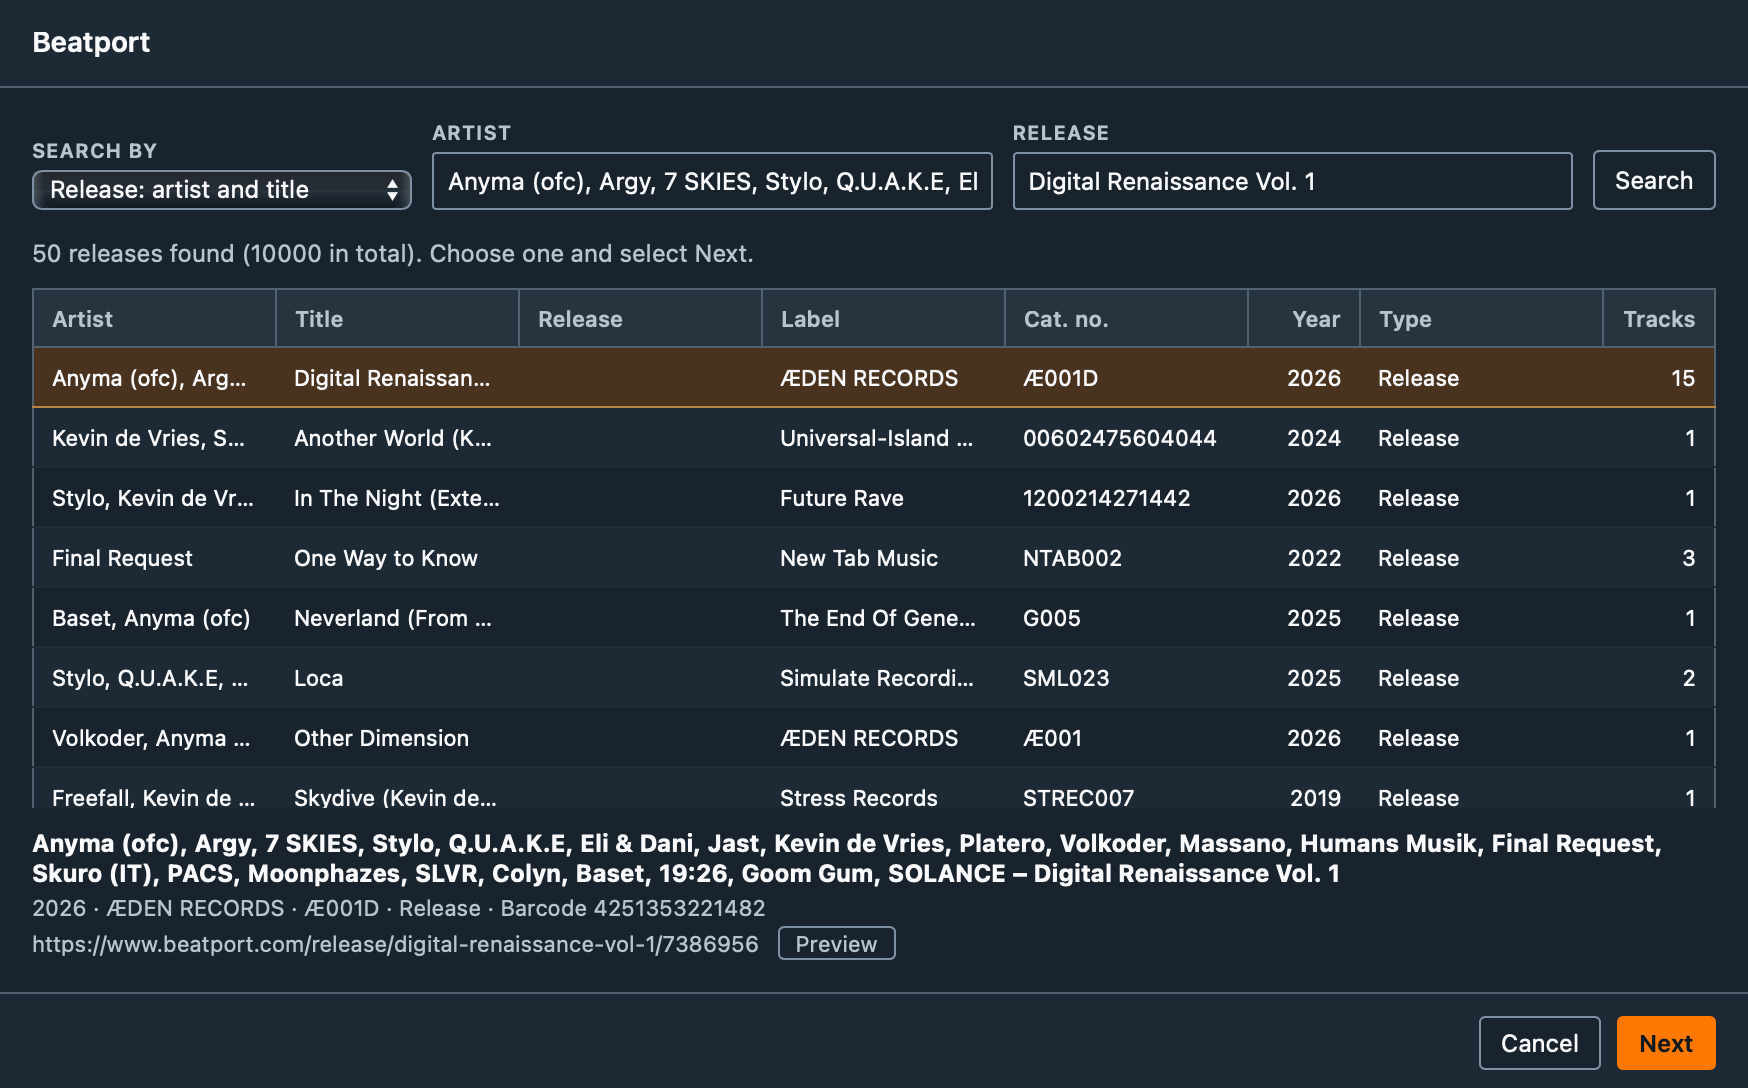
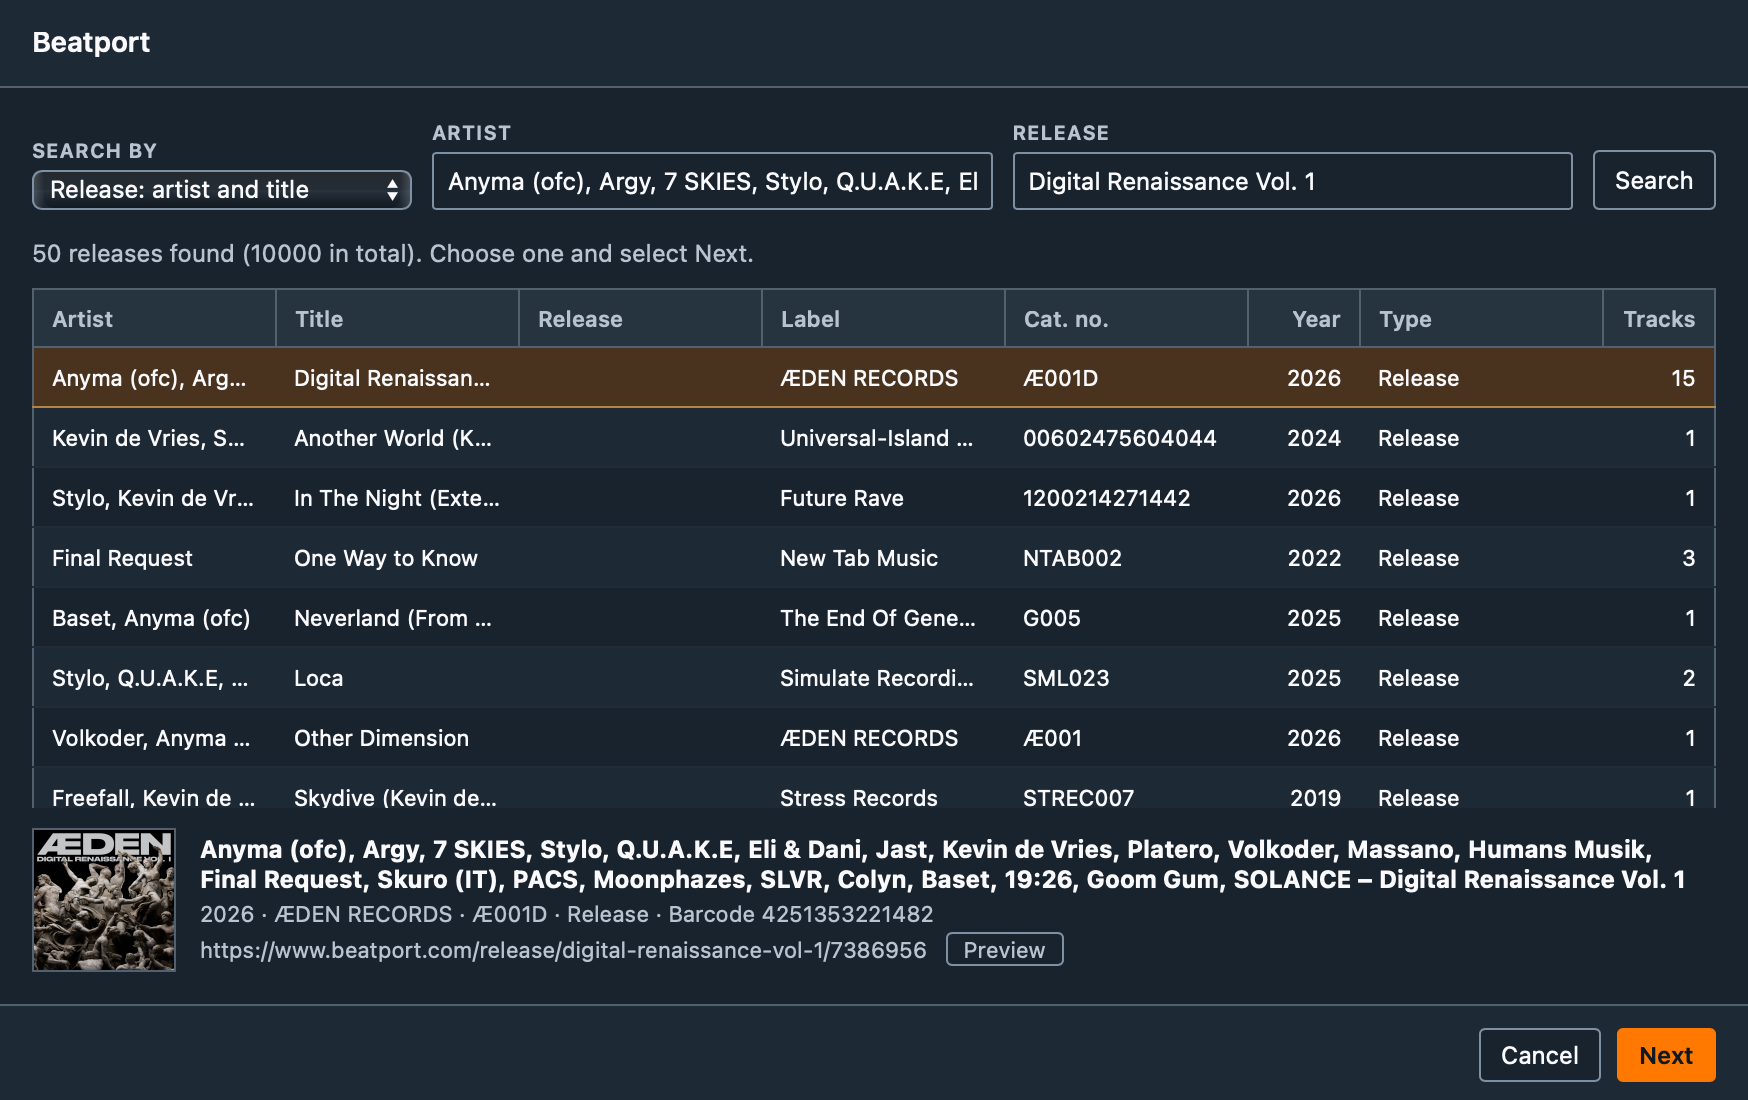
docs: screenshots of the provider flows, Compare with Edition lists, the solver page
Adds figures captured locally from a debug build of this branch with real
albums and songs: Discogs, Beatport (release and track), Traxsource (release and
track), AcoustID results and review, Compare (editions, review), the Cloudflare
solver page with a neutral example address and the API keys dialog as a new
person sees it. Describes the Edition list and when Compare marks a source
ready, and the iTunes artist fallback.

Screenshot scenes: Traxsource searches the release title alone (it lists the
compilation under Various Artists) and uses a track Traxsource carries; Compare
chooses a field that changes so the review step can be captured.

diff --git a/tests/docs-screens/scenes/tag-sources-live.js b/tests/docs-screens/scenes/tag-sources-live.js
@@ -62,6 +62,7 @@
   // EDM songs for the dance stores (Beatport, Traxsource), pop songs for iTunes, Deezer, LRCLIB, AcoustID.
   const DJ = h.music('albums', /Anyma/);
   const EDM = h.music('songs', /Adriatique/);
+  const EDM_TRAXSOURCE = h.music('songs', /Armin van Buuren/);   // Traxsource has this one; it does not carry Adriatique
   const POP = h.music('songs', /Taylor Swift/);
   const LYRICS = h.music('songs', /Lady Gaga/);
   const FINGERPRINT = h.music('songs', /Olivia Dean/);
@@ -88,9 +89,10 @@
       // Traxsource lists this compilation under "Various Artists": search by the release title alone.
       await searchFlow('source-traxsource', { results: 'traxsource-release-results', review: 'traxsource-release-review', tracks: 'traxsource-release-tracks' }, { mode: 'release', terms: { 'ts-artist': '', 'ts-album': 'Digital Renaissance' } });
     }),
-    scene('traxsource-track-flow', ['traxsource-track-results', 'traxsource-track-review'], EDM, async () => {
+    scene('traxsource-track-flow', ['traxsource-track-results', 'traxsource-track-review'], EDM_TRAXSOURCE, async () => {
       await h.selectAll();
-      await searchFlow('source-traxsource', { results: 'traxsource-track-results', review: 'traxsource-track-review' }, { mode: 'artist_title' });
+      // The first artist and the title without its mix, so the store's search finds the track.
+      await searchFlow('source-traxsource', { results: 'traxsource-track-results', review: 'traxsource-track-review' }, { mode: 'artist_title', terms: { 'ts-artist': 'Armin van Buuren', 'ts-title': 'Here In My Arms' } });
     }),
     scene('itunes-flow', ['itunes-results', 'itunes-review'], POP, async () => {
       await h.selectAll();
@@ -119,7 +121,7 @@
     }),
     // Compare metadata, album mode. Takes: the window as opened, the sources panel, the window
     // after searching, one field's provider menu, and the review step. Never presses Save.
-    scene('compare-flow', ['compare-start', 'compare-sources', 'compare-results', 'compare-use-menu', 'compare-review'], REM, async () => {
+    scene('compare-flow', ['compare-start', 'compare-sources', 'compare-editions', 'compare-results', 'compare-use-menu', 'compare-review'], REM, async () => {
       await h.selectAll();
       const d = await h.openDialog('source-compare', '[data-fields]');
       await h.waitFor(() => !/Reading existing/i.test(d.querySelector('[data-status]')?.textContent || ''), 20000, 'snapshot read');
@@ -139,17 +141,43 @@
       await h.sleep(2500);
       await h.report('LOG compare status: ' + (d.querySelector('[data-status]')?.textContent || ''));
       await h.snap('compare-results', 'dialog');
+      // The sources panel after the search: every source with several editions has an Edition list.
+      d.querySelector('[data-sources]').click(); await h.sleep(1500);
+      await h.snap('compare-editions', 'dialog');
+      const panelBack = [...document.querySelectorAll('dialog[open] [data-close]')].at(-1);
+      if (document.querySelectorAll('dialog[open]').length > 1) panelBack?.click();
+      await h.sleep(600);
       const pick = d.querySelector('[data-pick-field="ALBUM"]') || d.querySelector('[data-pick-field]');
       if (pick) {
         pick.click(); await h.sleep(800);
-        const menu = document.querySelector('[role="menu"], .mc-choice-menu, .helper-menu, [data-comparison-menu]');
-        await h.report('LOG use menu: ' + (menu ? menu.textContent.trim().replace(/\s+/g, ' ').slice(0, 200) : 'none found'));
+        const picker = [...document.querySelectorAll('dialog[open]')].at(-1);
+        const choices = [...picker.querySelectorAll('[data-source-choice^="native:"]')];
+        await h.report('LOG use menu: ' + choices.map(c => c.textContent.trim().replace(/\s+/g, ' ') + (c.disabled ? ' (disabled)' : '')).join(' | '));
         await h.snap('compare-use-menu', 'dialog');
-        document.body.dispatchEvent(new KeyboardEvent('keydown', { key: 'Escape', bubbles: true }));
-        await h.sleep(300);
+        document.body.dispatchEvent(new KeyboardEvent('keydown', { key: 'Escape', bubbles: true })); await h.sleep(500);
+        if (document.querySelectorAll('dialog[open]').length > 1) [...document.querySelectorAll('dialog[open] [data-close]')].at(-1)?.click();
+        await h.sleep(400);
+      }
+      // A field whose value a provider would change (Genre, else Year), so the review step has something to show.
+      const change = d.querySelector('[data-pick-field="GENRE"]') || d.querySelector('[data-pick-field="YEAR"]');
+      if (change) {
+        change.click(); await h.sleep(800);
+        const picker2 = [...document.querySelectorAll('dialog[open]')].at(-1);
+        const enabled = [...picker2.querySelectorAll('[data-source-choice^="native:"]')].filter(c => !c.disabled);
+        await h.report('LOG change choices: ' + enabled.map(c => c.textContent.trim().replace(/\s+/g, ' ')).join(' | '));
+        const chosen = enabled.find(c => /Last\.fm|Deezer|MusicBrainz/.test(c.textContent)) || enabled[0];
+        if (chosen) {
+          chosen.click(); await h.sleep(800);
+          if (document.querySelectorAll('dialog[open]').length > 1) [...document.querySelectorAll('dialog[open] [data-close]')].at(-1)?.click();
+          await h.sleep(500);
+        }
       }
       const review = d.querySelector('[data-review]');
       await h.report('LOG review enabled=' + (review && !review.disabled));
+      if (review && !review.disabled) {
+        review.click(); await h.sleep(2500);
+        await h.snap('compare-review', 'dialog');   // never saved: the dialog is closed below
+      }
       d.close();
     }),
   ];

diff --git a/docs/user-guide/tag-sources/catalog.md b/docs/user-guide/tag-sources/catalog.md
@@ -76,6 +76,86 @@ saving. Opening a release alone writes nothing.
 To choose individual fields from several providers, use
 [Compare metadata…](index.md#compare-fields-from-several-sources).
 
+## Review a Beatport result
+
+A release review lists the release's fields, each with a check box, and then its
+tracks beside the files TagGroove matched them to, in the release's own track
+order. A track review shows that one track's fields. Nothing is written until you
+choose **Save tags**.
+
+<!-- figure:beatport-release-review -->
+<figure markdown>
+![The Beatport review for Digital Renaissance Vol. 1 with its cover, the fields to write and the tracks matched to the selected files](../assets/screens/beatport-release-review-light.png#only-light)
+![The Beatport review for Digital Renaissance Vol. 1 with its cover, the fields to write and the tracks matched to the selected files](../assets/screens/beatport-release-review-dark.png#only-dark)
+<figcaption>The release's own cover is offered with the fields.</figcaption>
+</figure>
+<!-- /figure -->
+
+<!-- figure:beatport-release-tracks -->
+<figure markdown>
+![The tracks of the Beatport release beside the files they are matched to, with arrows to move a file to another track](../assets/screens/beatport-release-tracks-light.png#only-light)
+![The tracks of the Beatport release beside the files they are matched to, with arrows to move a file to another track](../assets/screens/beatport-release-tracks-dark.png#only-dark)
+</figure>
+<!-- /figure -->
+
+<!-- figure:beatport-track-results -->
+<figure markdown>
+![Beatport track results for Adriatique's Palm Of Your Hands (Extended Mix), with the chosen result's cover, label and catalog number below the list](../assets/screens/beatport-track-results-light.png#only-light)
+![Beatport track results for Adriatique's Palm Of Your Hands (Extended Mix), with the chosen result's cover, label and catalog number below the list](../assets/screens/beatport-track-results-dark.png#only-dark)
+<figcaption>Search a track by artist and title, then choose the result.</figcaption>
+</figure>
+<!-- /figure -->
+
+<!-- figure:beatport-track-review -->
+<figure markdown>
+![The review of one Beatport track: its fields and the file it is matched to](../assets/screens/beatport-track-review-light.png#only-light)
+![The review of one Beatport track: its fields and the file it is matched to](../assets/screens/beatport-track-review-dark.png#only-dark)
+</figure>
+<!-- /figure -->
+
+## Review a Traxsource result
+
+Traxsource results and reviews work the same way. Traxsource often lists a
+compilation under *Various Artists*, so search by the release title alone if the
+artist of your files finds nothing.
+
+<!-- figure:traxsource-release-review -->
+<figure markdown>
+![The Traxsource review for Digital Renaissance Vol. 1 with its cover, fields and tracks](../assets/screens/traxsource-release-review-light.png#only-light)
+![The Traxsource review for Digital Renaissance Vol. 1 with its cover, fields and tracks](../assets/screens/traxsource-release-review-dark.png#only-dark)
+</figure>
+<!-- /figure -->
+
+<!-- figure:traxsource-release-tracks -->
+<figure markdown>
+![The Traxsource release's tracks beside the matched files; one of the 15 tracks has no file](../assets/screens/traxsource-release-tracks-light.png#only-light)
+![The Traxsource release's tracks beside the matched files; one of the 15 tracks has no file](../assets/screens/traxsource-release-tracks-dark.png#only-dark)
+<figcaption>TagGroove says how many tracks have a file before you save.</figcaption>
+</figure>
+<!-- /figure -->
+
+<!-- figure:traxsource-release-results -->
+<figure markdown>
+![Traxsource release search for Digital Renaissance with the artist box cleared: the compilation is listed under Various Artists](../assets/screens/traxsource-release-results-light.png#only-light)
+![Traxsource release search for Digital Renaissance with the artist box cleared: the compilation is listed under Various Artists](../assets/screens/traxsource-release-results-dark.png#only-dark)
+<figcaption>Searching by the release title alone finds a compilation credited to Various Artists.</figcaption>
+</figure>
+<!-- /figure -->
+
+<!-- figure:traxsource-track-results -->
+<figure markdown>
+![Traxsource track search for Armin van Buuren's Here In My Arms, with its single result and cover below the list](../assets/screens/traxsource-track-results-light.png#only-light)
+![Traxsource track search for Armin van Buuren's Here In My Arms, with its single result and cover below the list](../assets/screens/traxsource-track-results-dark.png#only-dark)
+</figure>
+<!-- /figure -->
+
+<!-- figure:traxsource-track-review -->
+<figure markdown>
+![The review of one Traxsource track: its fields and the file it is matched to](../assets/screens/traxsource-track-review-light.png#only-light)
+![The review of one Traxsource track: its fields and the file it is matched to](../assets/screens/traxsource-track-review-dark.png#only-dark)
+</figure>
+<!-- /figure -->
+
 ## When Cloudflare blocks a lookup
 
 Traxsource in particular can answer with a Cloudflare challenge instead of the

diff --git a/docs/user-guide/tag-sources/compare.md b/docs/user-guide/tag-sources/compare.md
@@ -47,9 +47,28 @@ details. A failed source leaves other results available; retry it separately.
 
 ## 3. Check the matches
 
-Check the suggested release and **Tracks and files**. Use **Matches** to
-choose another edition, or **Match…** to correct a file's provider track.
-Ambiguous matches require review. A changed candidate resets its field choices.
+Check the suggested release and **Tracks and files**. A source that found
+several editions of the album shows an **Edition** list in **Sources and
+matches**: choose the pressing or release you have, and that source loads it and
+becomes ready. **Matches** lists the same candidates with more detail, and
+**Match…** corrects a file's provider track.
+
+<!-- figure:compare-editions -->
+<figure markdown>
+![Sources and matches after a search: a source with several editions has an Edition list, and sources that matched say Ready](../assets/screens/compare-editions-light.png#only-light)
+![Sources and matches after a search: a source with several editions has an Edition list, and sources that matched say Ready](../assets/screens/compare-editions-dark.png#only-dark)
+<figcaption>Choose the edition you have from each source's Edition list.</figcaption>
+</figure>
+<!-- /figure -->
+
+A source is ready on its own when exactly one of its results has the artist and
+title you searched for and every file has a matching track. Several editions of
+the same album, or a track that does not line up, are ambiguous: that source
+stays at **Choose the matching result** until you pick its edition, and its
+values stay unavailable in **Use** until then. In **Use**, **Review match** takes
+you to that source's list. Last.fm matches tracks by title and artist
+only, because its track lengths are often inaccurate. A changed candidate resets
+its field choices.
 
 <!-- figure:compare-results -->
 <figure markdown>
@@ -102,6 +121,13 @@ fields. Artwork has the same Inherit/None/provider choices and a visual preview.
 Choose **Review and save**. Check affected paths, removals and missing-value
 notices, then save the reviewed batch. Successful files appear separately if
 another file fails. **Retry failed files** writes only the remaining failures.
+
+<!-- figure:compare-review -->
+<figure markdown>
+![The review step of Compare metadata, listing the files and fields that would change before anything is saved](../assets/screens/compare-review-light.png#only-light)
+![The review step of Compare metadata, listing the files and fields that would change before anything is saved](../assets/screens/compare-review-dark.png#only-dark)
+</figure>
+<!-- /figure -->
 
 ## Good to know
 

diff --git a/docs/user-guide/tag-sources/discogs.md b/docs/user-guide/tag-sources/discogs.md
@@ -22,6 +22,21 @@ Select the album's files and choose **Discogs…**. Search by **Artist and
 album**, **Free text**, **Barcode** or **Catalog number**, or use **Release
 ID or address**. **Tag Sources → Discogs Release ID…** opens the direct lookup.
 
+<!-- figure:discogs-results -->
+<figure markdown>
+![Discogs results for Miles Davis's Kind Of Blue: many pressings, each with its year, country, label and catalog number](../assets/screens/discogs-results-light.png#only-light)
+![Discogs results for Miles Davis's Kind Of Blue: many pressings, each with its year, country, label and catalog number](../assets/screens/discogs-results-dark.png#only-dark)
+<figcaption>Pick the pressing you have; the details below the list help tell them apart.</figcaption>
+</figure>
+<!-- /figure -->
+
+<!-- figure:discogs-review -->
+<figure markdown>
+![The Discogs review of one Kind Of Blue pressing: its fields, cover and tracks](../assets/screens/discogs-review-light.png#only-light)
+![The Discogs review of one Kind Of Blue pressing: its fields, cover and tracks](../assets/screens/discogs-review-dark.png#only-dark)
+</figure>
+<!-- /figure -->
+
 Use a numeric release ID or an address containing `/release/`. A Discogs
 master groups editions; choose the individual release rather than its master
 ID. Select a search result and choose **Next**, or use **Look up** for a

diff --git a/docs/user-guide/tag-sources/acoustid.md b/docs/user-guide/tag-sources/acoustid.md
@@ -55,6 +55,21 @@ The optional external producer has its own process timeout.
 
 ## Identify and review
 
+<!-- figure:acoustid-results -->
+<figure markdown>
+![AcoustID results for a fingerprinted song: releases that contain the recording, ranked by files matched and score](../assets/screens/acoustid-results-light.png#only-light)
+![AcoustID results for a fingerprinted song: releases that contain the recording, ranked by files matched and score](../assets/screens/acoustid-results-dark.png#only-dark)
+<figcaption>Several releases can contain the same recording, so the top result still needs a check.</figcaption>
+</figure>
+<!-- /figure -->
+
+<!-- figure:acoustid-review -->
+<figure markdown>
+![The AcoustID review: the identified recording on the chosen release, with its fields and the file it is matched to](../assets/screens/acoustid-review-light.png#only-light)
+![The AcoustID review: the identified recording on the chosen release, with its fields and the file it is matched to](../assets/screens/acoustid-review-dark.png#only-dark)
+</figure>
+<!-- /figure -->
+
 1. Select the album's files and choose **Tag Sources → AcoustID (fingerprints)…**.
 2. Select **Search**. TagGroove fingerprints each file and ranks releases by
    the number of selected files matched, then match score.

diff --git a/docs/user-guide/tag-sources/cloudflare-solver.md b/docs/user-guide/tag-sources/cloudflare-solver.md
@@ -18,6 +18,14 @@ to every tag source.
 
 Choose **Tag Sources → Options…** and open **Cloudflare solver**.
 
+<!-- figure:options-tag-sources-solver -->
+<figure markdown>
+![The Cloudflare solver page of the Options dialog with the solver endpoint, timeout and the Retry direct access button](../assets/screens/options-tag-sources-solver-light.png#only-light)
+![The Cloudflare solver page of the Options dialog with the solver endpoint, timeout and the Retry direct access button](../assets/screens/options-tag-sources-solver-dark.png#only-dark)
+<figcaption>Options → Tag Sources → Cloudflare solver holds the optional solver endpoint.</figcaption>
+</figure>
+<!-- /figure -->
+
 - **Solver endpoint:** the address of your solver, for example
   `http://127.0.0.1:8191`. TagGroove adds `/v1` when you leave it off, so
   `http://127.0.0.1:8191` and `http://127.0.0.1:8191/v1` are the same. The address

diff --git a/docs/user-guide/tag-sources/itunes.md b/docs/user-guide/tag-sources/itunes.md
@@ -37,6 +37,11 @@ individual fields from different providers for one track or an entire album.
 4. Check the country, fields, artwork and file-to-track matches before
    [saving](index.md#search-review-and-save).
 
+iTunes ranks album searches by popularity and sometimes leaves a catalogue album
+out, such as R.E.M.'s *Automatic For The People*. When an artist-and-album
+search finds no album with your title, TagGroove also looks through the albums
+of that artist and adds the ones that match, editions included.
+
 iTunes returns up to 50 album search results; there is no further result-page
 lookup. Narrow the words or use an album ID if the edition is missing.
 
